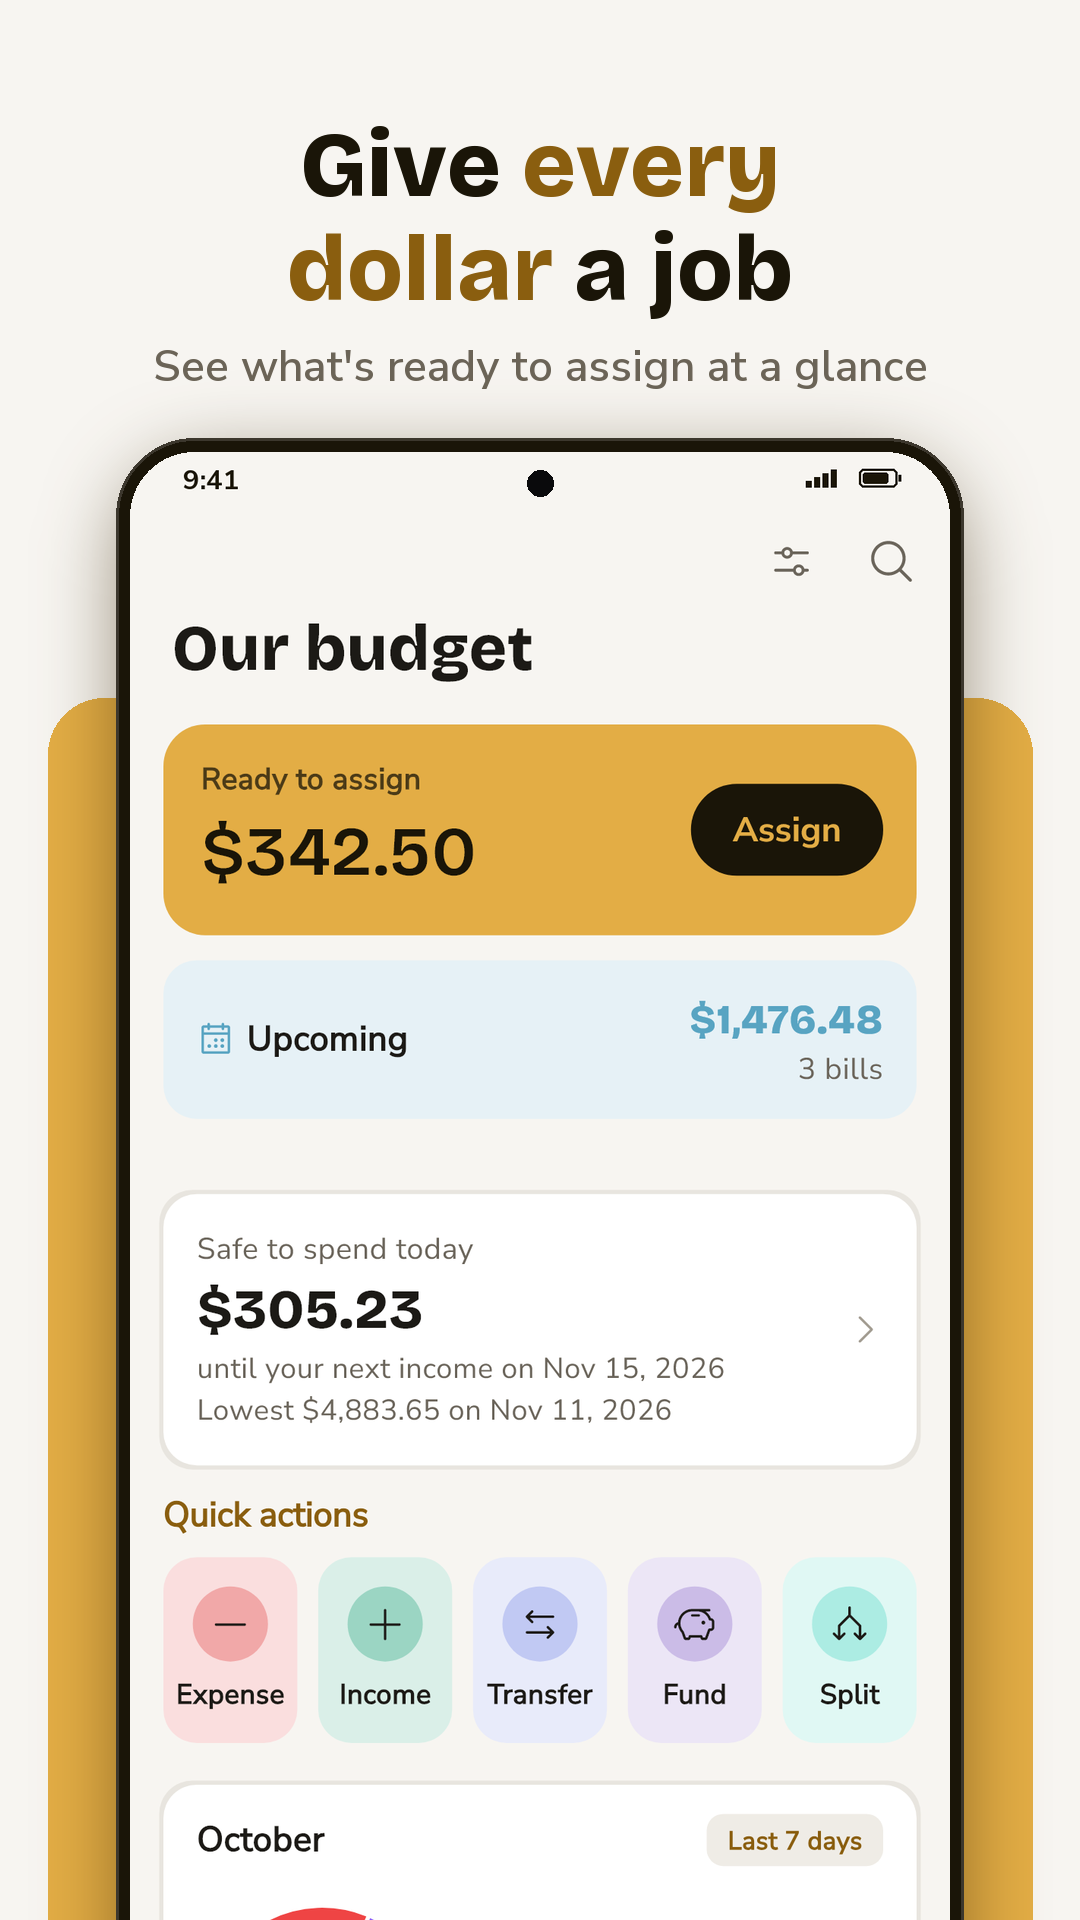
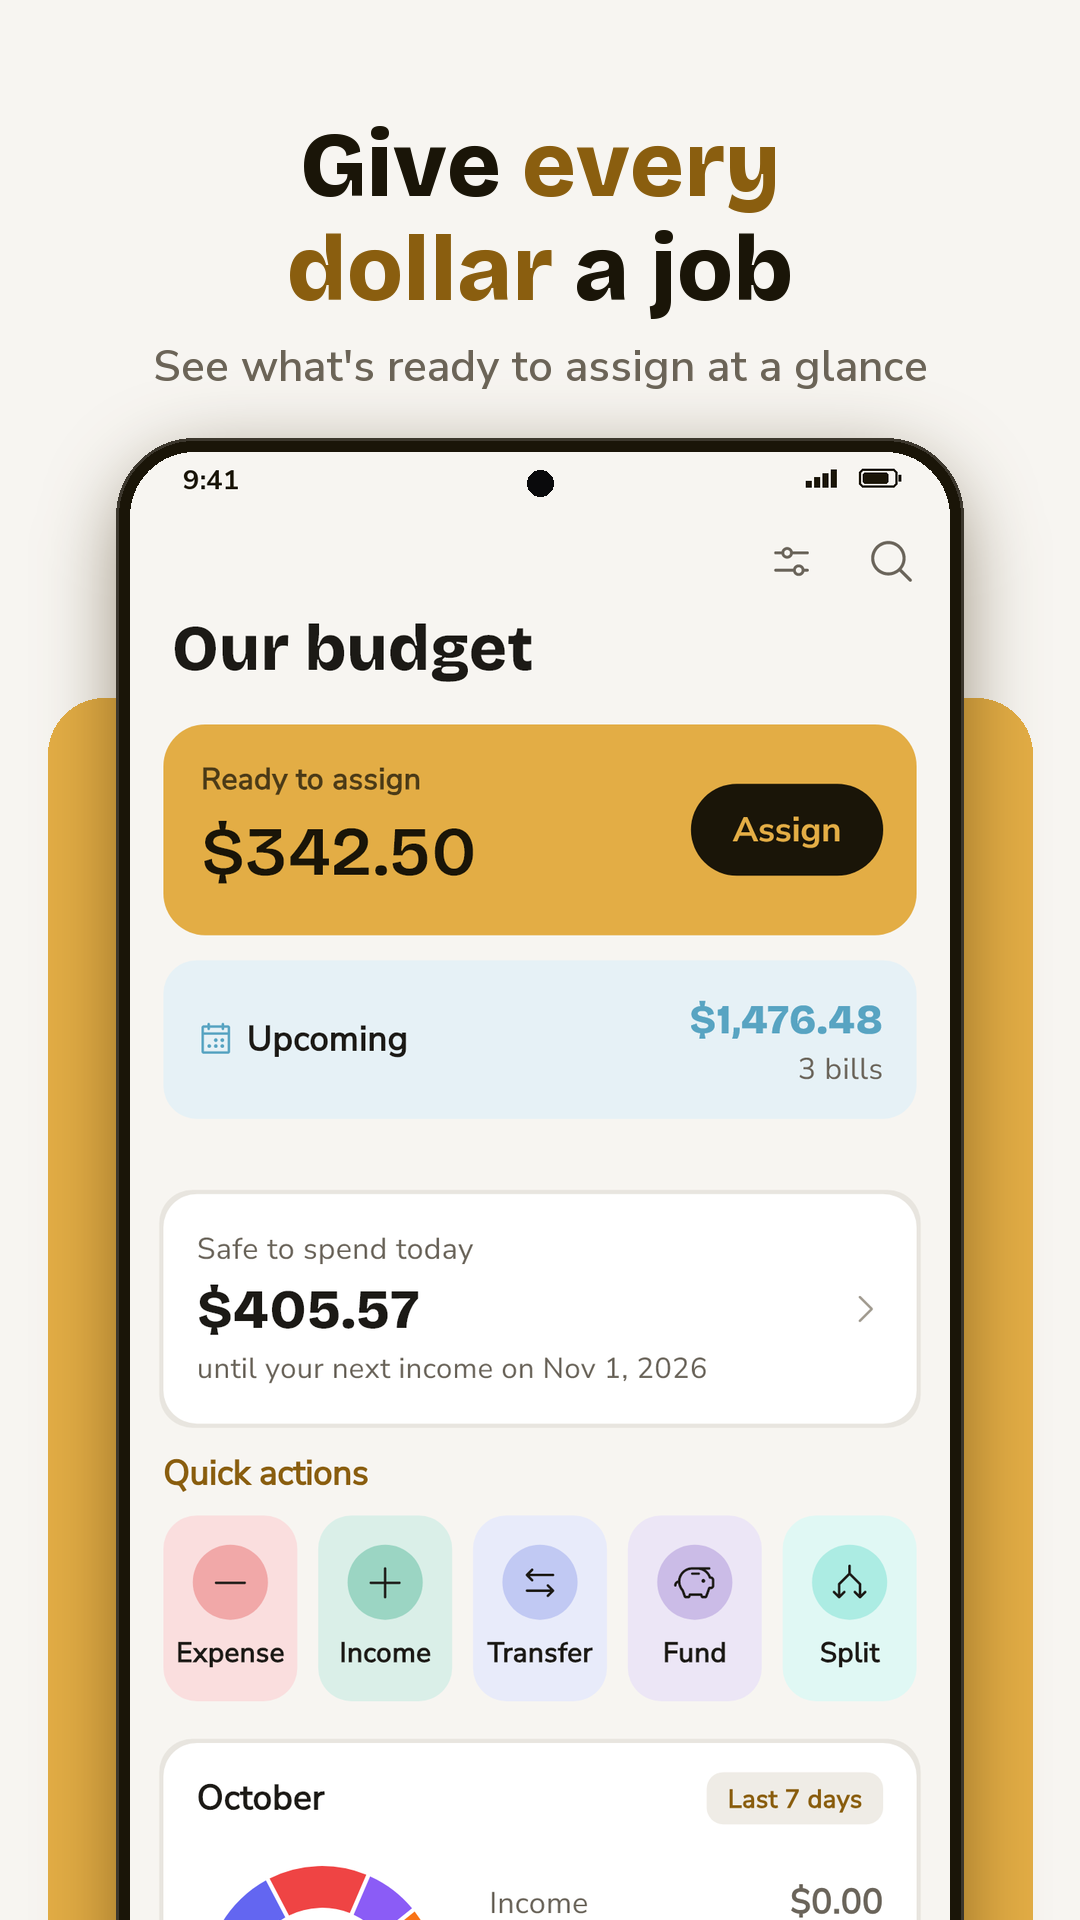
Safe to spend leaves out money kept for savings goals
Money in savings envelopes has a job (a goal), so the forecast no longer
counts it as free to spend; spending envelopes still count. The Forecast
breakdown shows it as "Kept for savings goals". Store screenshots
regenerated with the demo's payday on the 1st, like its history.

diff --git a/lib/core/engine/forecast.dart b/lib/core/engine/forecast.dart
@@ -77,10 +77,14 @@ class CurrencyForecast {
   /// what's still to set aside this period.
   final double reserved;
 
+  /// Money in savings envelopes: it has a job (a goal), so it isn't
+  /// counted as safe to spend.
+  final double saved;
+
   /// Days from today to the next income (at least 1).
   final int daysLeft;
 
-  /// Per day until the next income: cash − due − reserved, ÷ days; never
+  /// Per day until the next income: cash − due − reserved − saved, ÷ days; never
   /// below 0 ([short] says by how much it falls short).
   final double safeToSpend;
   final double short;
@@ -96,6 +100,7 @@ class CurrencyForecast {
     required this.nextIncome,
     required this.dueBefore,
     required this.reserved,
+    this.saved = 0,
     required this.daysLeft,
     required this.safeToSpend,
     required this.short,
@@ -121,6 +126,7 @@ Map<String, CurrencyForecast> buildForecast({
   List<RecurringTransaction> recurring = const [],
   List<PlannedPart> planned = const [],
   List<ForecastFund> funds = const [],
+  Map<String, double> savings = const {},
   List<PastIncome> pastIncome = const [],
   int days = 90,
 }) {
@@ -215,7 +221,8 @@ Map<String, CurrencyForecast> buildForecast({
       reserved += math.max(0, (f.balances[c] ?? 0) - paidBefore) +
           (f.thisPeriod[c] ?? 0);
     }
-    final free = start - dueBefore - reserved;
+    final saved = math.max(0.0, savings[c] ?? 0);
+    final free = start - dueBefore - reserved - saved;
     out[c] = CurrencyForecast(
       currency: c,
       start: start,
@@ -227,6 +234,7 @@ Map<String, CurrencyForecast> buildForecast({
       nextIncome: next,
       dueBefore: dueBefore,
       reserved: reserved,
+      saved: saved,
       daysLeft: daysLeft,
       safeToSpend: math.max(0, free) / daysLeft,
       short: free < 0 ? -free : 0,

diff --git a/assets/web/help.html b/assets/web/help.html
@@ -576,7 +576,7 @@
 <!-- ══════════════════════════════════════════ -->
 <h2 id="forecast">Forecast</h2>
 
-<p>The Home card <strong>Safe to spend today</strong> tells you how much you can spend each day until your next income without missing a bill: the money in your accounts, minus every bill, subscription and planned payment due before then, minus what your <a href="#sinking-funds">sinking funds</a> keep for later, divided by the days left. If that's not enough, it says by how much you're short. It also shows the lowest your money will go in the next 90 days, and when.</p>
+<p>The Home card <strong>Safe to spend today</strong> tells you how much you can spend each day until your next income without missing a bill: the money in your accounts, minus every bill, subscription and planned payment due before then, minus what your <a href="#sinking-funds">sinking funds</a> keep for later and what your savings envelopes hold for their goals, divided by the days left. If that's not enough, it says by how much you're short. It also shows the lowest your money will go in the next 90 days, and when.</p>
 <p>Tap it for the <strong>Forecast</strong>: how the number adds up, a line of your balance over the next 90 days (touch it to see any day), and everything coming up. It uses your recurring bills and incomes, subscriptions (with their price changes) and planned payments. If you haven't set up your salary as a recurring income, BudgetSeal estimates it from the last three months and shows it as <em>Usual income (estimate)</em>. Each currency has its own forecast — they're never added together.</p>
 
 <h2 id="transactions">Transactions</h2>

diff --git a/lib/core/providers/forecast_provider.dart b/lib/core/providers/forecast_provider.dart
@@ -4,6 +4,7 @@ import 'package:flutter_riverpod/flutter_riverpod.dart';
 import '../../shared/utils/note_text.dart';
 import '../engine/forecast.dart';
 import 'accounts_provider.dart';
+import 'allocations_provider.dart';
 import 'database_provider.dart';
 import 'household_provider.dart';
 import 'sinking_fund_provider.dart';
@@ -50,6 +51,16 @@ final forecastProvider =
       ForecastFund(f.balances, f.thisPeriod, f.plan.upcoming),
   ];
 
+  // Savings envelopes' money has a goal: not safe to spend.
+  final savings = <String, double>{};
+  for (final a in await ref.watch(allocationsProvider.future)) {
+    final env = a.data.allocation;
+    if (env.type != 'saving' || env.archived) continue;
+    a.balanceByCurrency.forEach((c, v) {
+      if (v > 0) savings[c] = (savings[c] ?? 0) + v;
+    });
+  }
+
   final since = DateTime.now().subtract(const Duration(days: 92));
   final pastIncome = [
     for (final r in await db.customSelect(
@@ -72,6 +83,7 @@ final forecastProvider =
     recurring: recurring,
     planned: planned,
     funds: funds,
+    savings: savings,
     pastIncome: pastIncome,
   );
 });

diff --git a/test/core/engine/forecast_test.dart b/test/core/engine/forecast_test.dart
@@ -128,6 +128,22 @@ void main() {
     expect(f.safeToSpend, closeTo((2000 - 400 - 300) / 29, 1e-9));
   });
 
+  test('savings goals are not safe to spend; each currency its own',
+      () async {
+    final f = buildForecast(
+      now: now,
+      cash: {'USD': 2000, 'EUR': 500},
+      recurring: await recurring([
+        ('Salary', 'income', 2000, DateTime(2026, 11, 25)),
+      ]),
+      savings: {'USD': 1200, 'EUR': -50},
+    );
+    expect(f['USD']!.saved, 1200);
+    expect(f['USD']!.safeToSpend, closeTo((2000 - 1200) / 29, 1e-9));
+    // A negative savings balance never adds money.
+    expect(f['EUR']!.saved, 0);
+  });
+
   test('falling short: safe to spend is 0 and says by how much', () async {
     final f = buildForecast(
       now: now,

diff --git a/lib/features/forecast/forecast_screen.dart b/lib/features/forecast/forecast_screen.dart
@@ -183,6 +183,8 @@ class _ForecastScreenState extends ConsumerState<ForecastScreen> {
                       (tr.forecastDue, money(-f.dueBefore)),
                       if (f.reserved > 0.005)
                         (tr.forecastReserved, money(-f.reserved)),
+                      if (f.saved > 0.005)
+                        (tr.forecastSaved, money(-f.saved)),
                     ])
                       Padding(
                         padding: const EdgeInsets.symmetric(vertical: 2),

diff --git a/test/store/demo_budget.dart b/test/store/demo_budget.dart
@@ -186,7 +186,7 @@ class DemoBudget {
             id: 'pay', householdId: hh, type: 'income', amount: 3200,
             currency: base, accountId: 'checking', frequency: 'monthly',
             categoryId: const Value('salary'), title: const Value('Salary'),
-            nextDueDate: today.add(const Duration(days: 16))));
+            nextDueDate: DateTime(today.year, today.month + 1, 1)));
   }
 
   /// Opening balances + income, and what was funded: Ready to assign is

diff --git a/docs/dev/budget.md b/docs/dev/budget.md
@@ -265,7 +265,7 @@ Tests: `test/core/services/family_service_test.dart` (approve once, decline, two
 
 ## Forecast (roadmap #4, Oct 27 2026)
 
-User's decisions: safe to spend = **cash until the next payday**; income = what's scheduled **plus an estimate** when nothing is; a **Home card + Forecast screen**. Engine `buildForecast()` (`core/engine/forecast.dart`, pure): per currency (never mixed) over 90 days — recurring bills/incomes (enabled, not ended; dates by `advanceRecurringDate`, amounts by `recurringAmountOn` so price changes count; overdue ones count today; transfers left out), planned payments (`PlannedPart` per line/currency), and for a currency with no scheduled income an **estimate**: the last 92 days' posted incomes ÷ 3, on the usual day (the median day of the incomes ≥ half the monthly average), monthly. `daily` balances (end of each day), lowest point. **Safe to spend** = (cash − outgoings before the next income (or the next 30 days) − sinking reserve) ÷ days left (≥ 1), never below 0 (`short` = by how much). Sinking reserve per fund = max(0, balance − its payments before then — those are already outgoings) + what's still to put in this period (`thisPeriod`). Provider `forecastProvider` (`core/providers/forecast_provider.dart`: account balances per currency, recurring, planned lines, `sinkingFundsProvider`, past incomes). UI (`features/forecast/forecast_screen.dart`): Home `ForecastCard` (base currency: safe to spend, until when / short by, lowest point; in the Budget section after `BudgetFocus`) → `/forecast`: currency chips, the breakdown (in accounts, due before then, kept for sinking funds), the chart (dataviz rules: one 2 px step line, no legend, the data's own range, zero line only when crossed, faint month lines, the lowest point marked 8 px with a surface ring and named in the header; touch shows the day's balance), and every upcoming item (the chart's table; estimates in italics). Tests: `test/core/engine/forecast_test.dart`, `test/features/forecast_screen_test.dart`.
+User's decisions: safe to spend = **cash until the next payday**; income = what's scheduled **plus an estimate** when nothing is; a **Home card + Forecast screen**. Engine `buildForecast()` (`core/engine/forecast.dart`, pure): per currency (never mixed) over 90 days — recurring bills/incomes (enabled, not ended; dates by `advanceRecurringDate`, amounts by `recurringAmountOn` so price changes count; overdue ones count today; transfers left out), planned payments (`PlannedPart` per line/currency), and for a currency with no scheduled income an **estimate**: the last 92 days' posted incomes ÷ 3, on the usual day (the median day of the incomes ≥ half the monthly average), monthly. `daily` balances (end of each day), lowest point. **Safe to spend** = (cash − outgoings before the next income (or the next 30 days) − sinking reserve − savings) ÷ days left (≥ 1), never below 0 (`short` = by how much). Sinking reserve per fund = max(0, balance − its payments before then — those are already outgoings) + what's still to put in this period (`thisPeriod`). Savings (`saved`) = the positive balances of open `saving` envelopes per currency (the user's call, Oct 30: goal money has a job, so it isn't safe to spend; spending envelopes still count). Provider `forecastProvider` (`core/providers/forecast_provider.dart`: account balances per currency, recurring, planned lines, `sinkingFundsProvider`, past incomes). UI (`features/forecast/forecast_screen.dart`): Home `ForecastCard` (base currency: safe to spend, until when / short by, lowest point; in the Budget section after `BudgetFocus`) → `/forecast`: currency chips, the breakdown (in accounts, due before then, kept for sinking funds, kept for savings goals), the chart (dataviz rules: one 2 px step line, no legend, the data's own range, zero line only when crossed, faint month lines, the lowest point marked 8 px with a surface ring and named in the header; touch shows the day's balance), and every upcoming item (the chart's table; estimates in italics). Tests: `test/core/engine/forecast_test.dart`, `test/features/forecast_screen_test.dart`.
 
 ## Count Cash (roadmap #3, Oct 27 2026)
 
